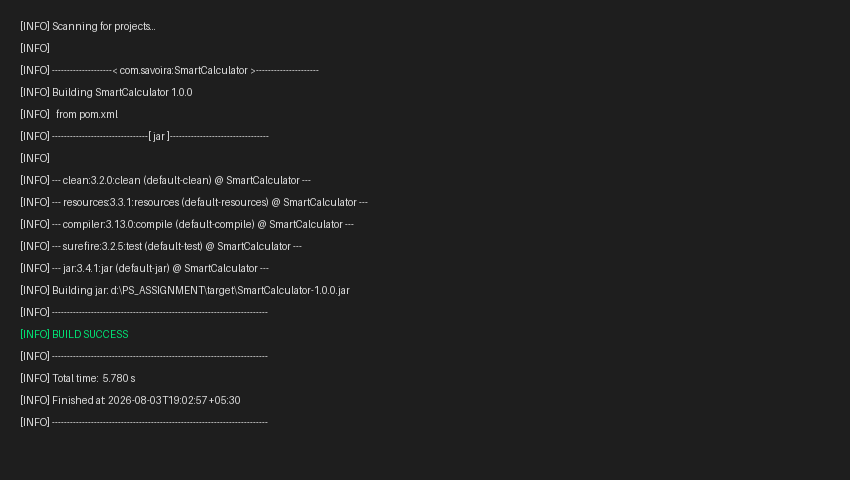
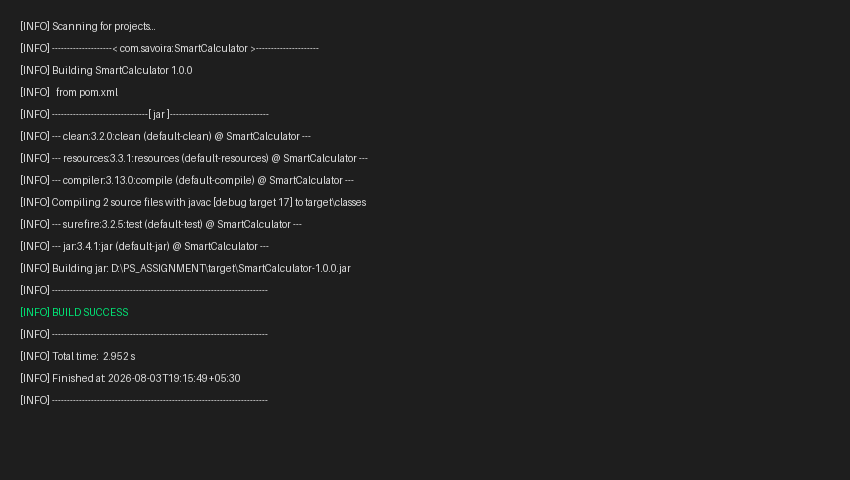
feat(history): add Java source files for SmartCalculator and History

diff --git a/src/main/java/com/savoira/SmartCalculator.java b/src/main/java/com/savoira/SmartCalculator.java
@@ -1,0 +1,7 @@
+package com.savoira;
+
+public class SmartCalculator {
+    public static void main(String[] args) {
+        System.out.println("SmartCalculator Initialized");
+    }
+}

diff --git a/src/main/java/com/savoira/History.java b/src/main/java/com/savoira/History.java
@@ -1,0 +1,8 @@
+package com.savoira;
+
+/**
+ * Stores the last 5 calculations history.
+ */
+public class History {
+
+}
